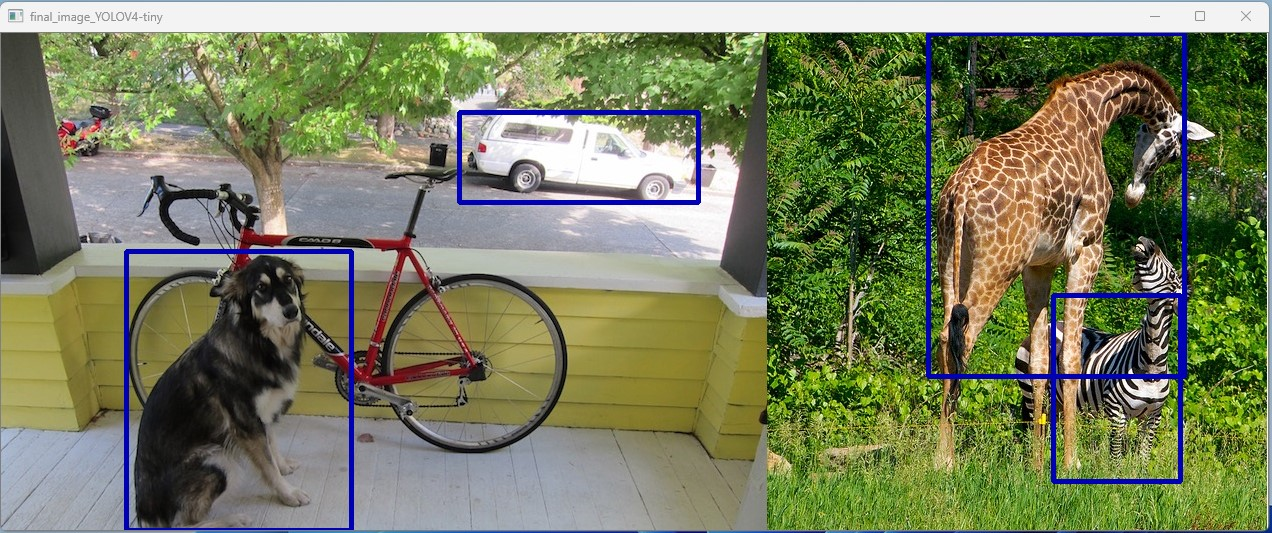
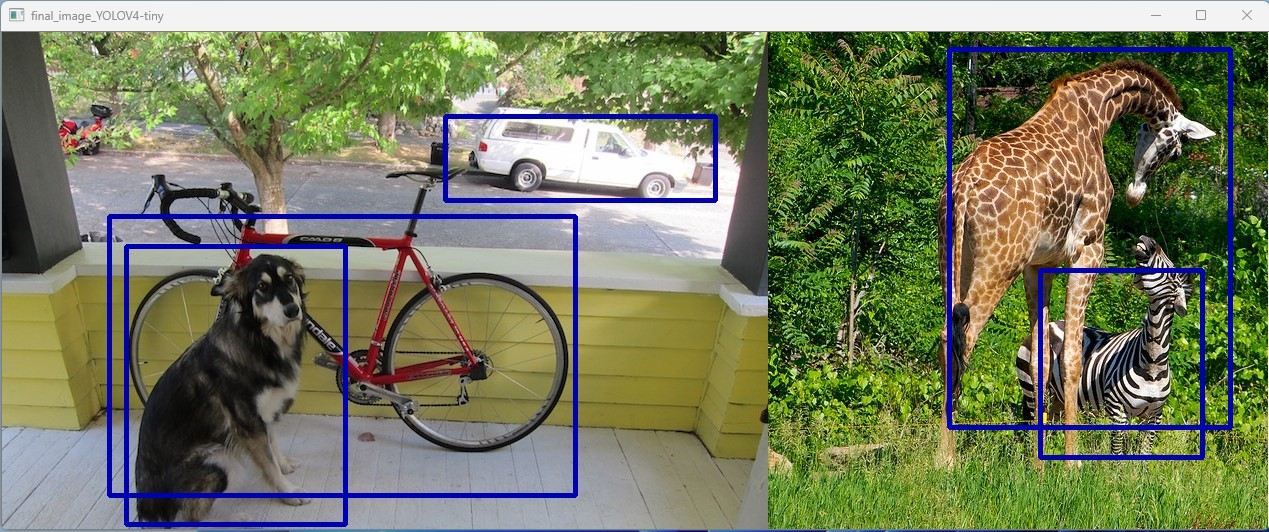
[update] OpenCV/37_object_dectecion.py

diff --git a/OpenCV/37_object_dectecion.py b/OpenCV/37_object_dectecion.py
@@ -81,7 +81,7 @@ def initNet_tiny():
     if major == '4':
         model = cv2.dnn_DetectionModel(net)
         # 若以yolov4-tiny進行物件偵測，預設size=(416, 416)
-        model.setInputParams(size=(608, 608), scale=1/255.0)
+        model.setInputParams(size=(416, 416), scale=1/255.0)
         model.setInputSwapRB(True)
         return model
     else:
@@ -153,7 +153,12 @@ if __name__ == '__main__':
                             local_time.tm_hour,local_time.tm_min,local_time.tm_sec))
     opt_verbose = 'On'
     img_file = args.img    
-    path_infinicloud = 'Z:\\OpenCV'
+    
+    if sys.platform.startswith('linux'): # 包含 linux 與 linux2 的情況
+        path_infinicloud = '/home/philphoenix/infinicloud/OpenCV'
+    elif sys.platform.startswith('win32'):
+        path_infinicloud = 'Z:\\OpenCV'
+        
     if not os.path.isfile(os.path.join(path_infinicloud, img_file)):
         logger.info(f'{os.path.join(path_infinicloud, img_file)} does not exist!')
         est_timer(start_time=t0)
